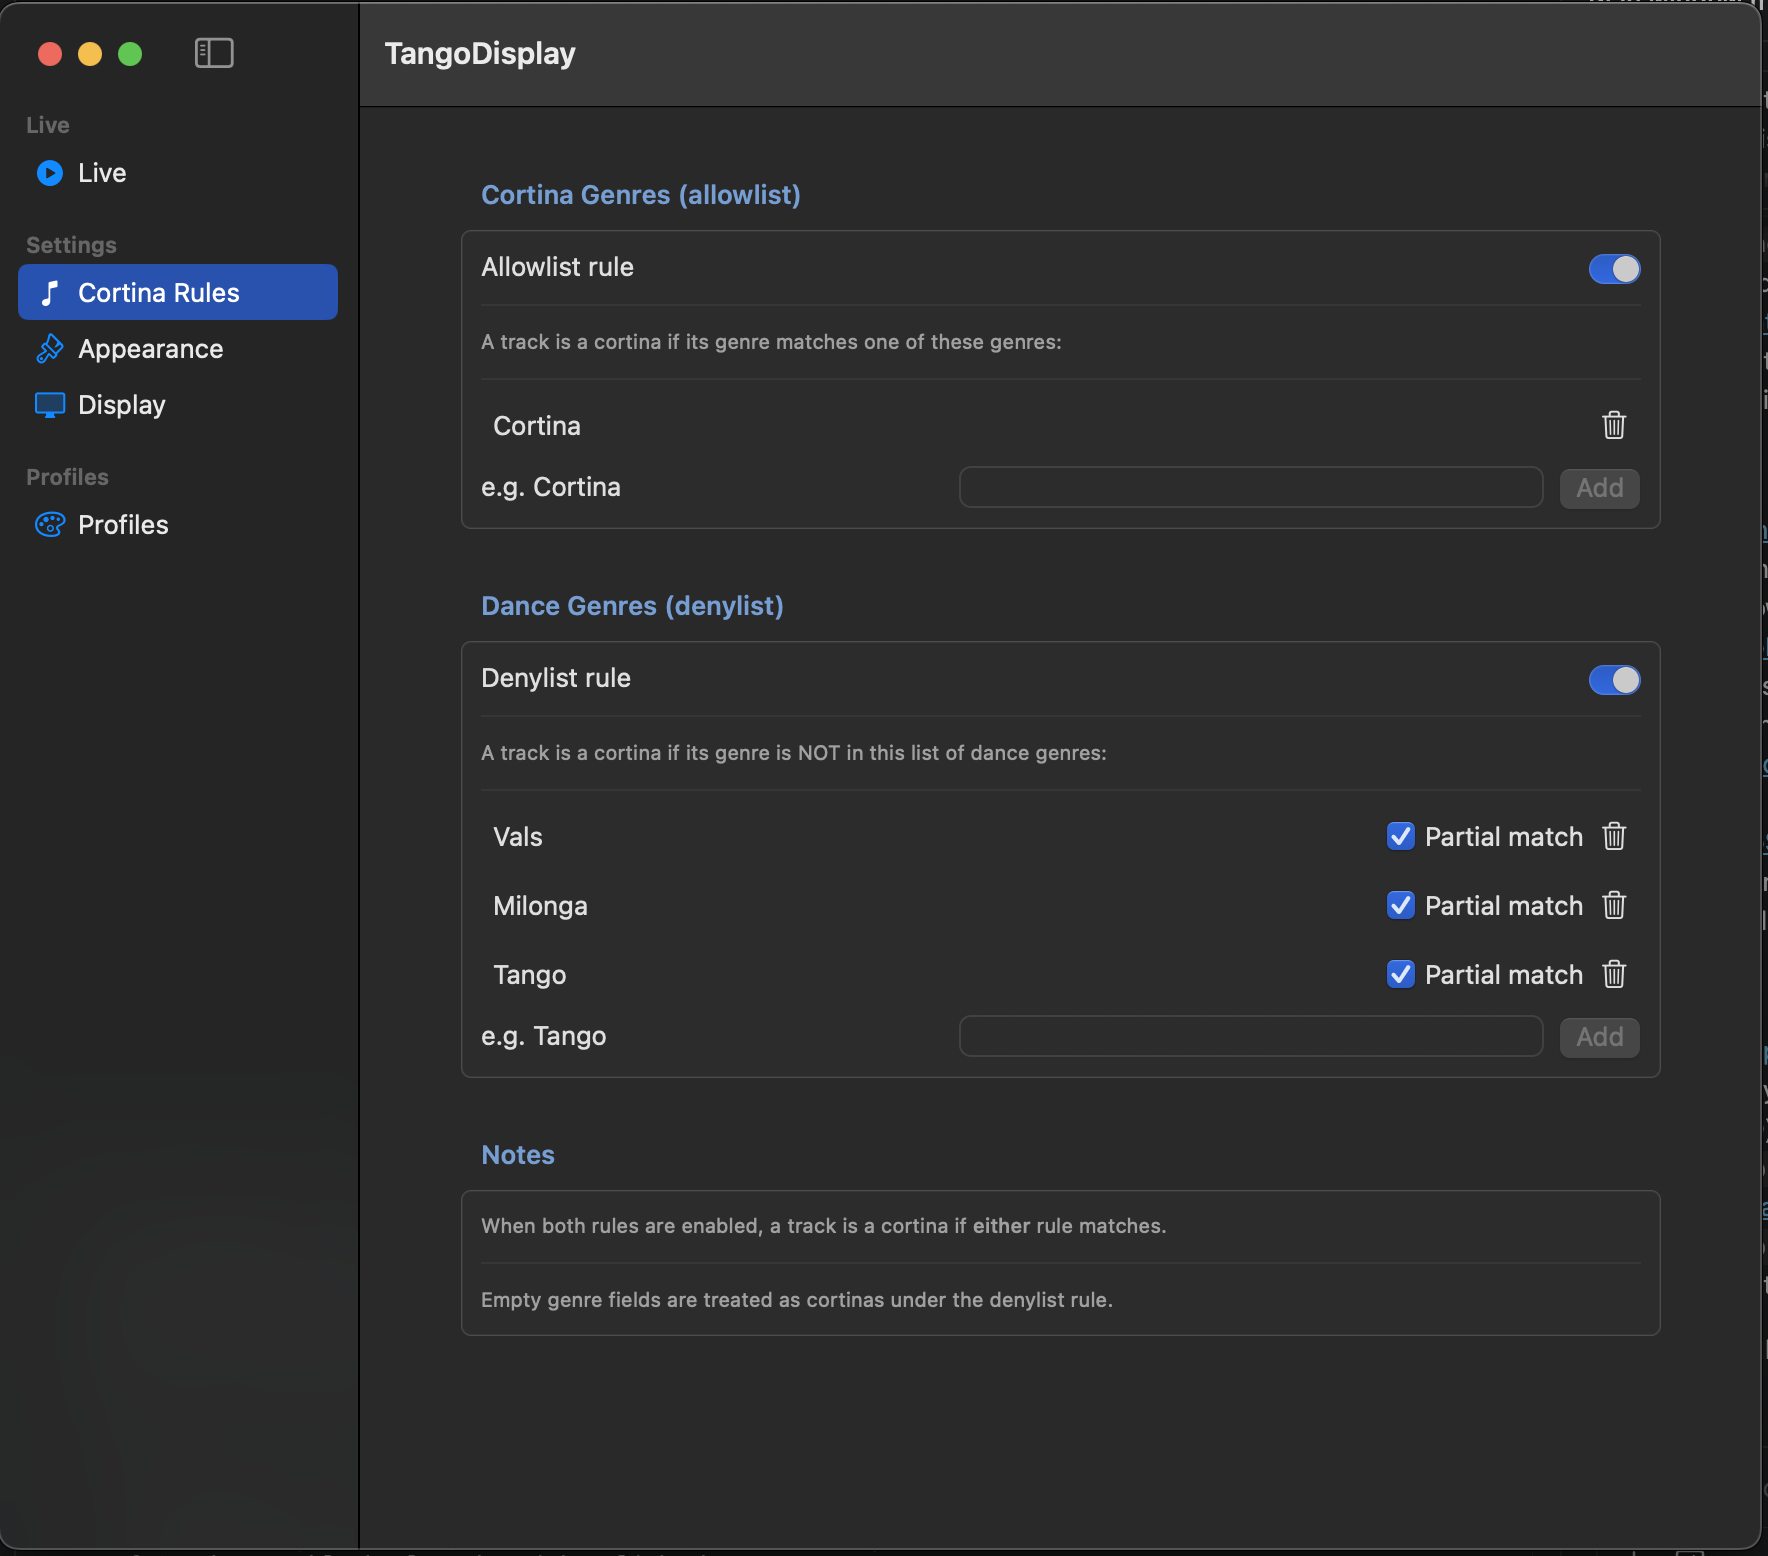
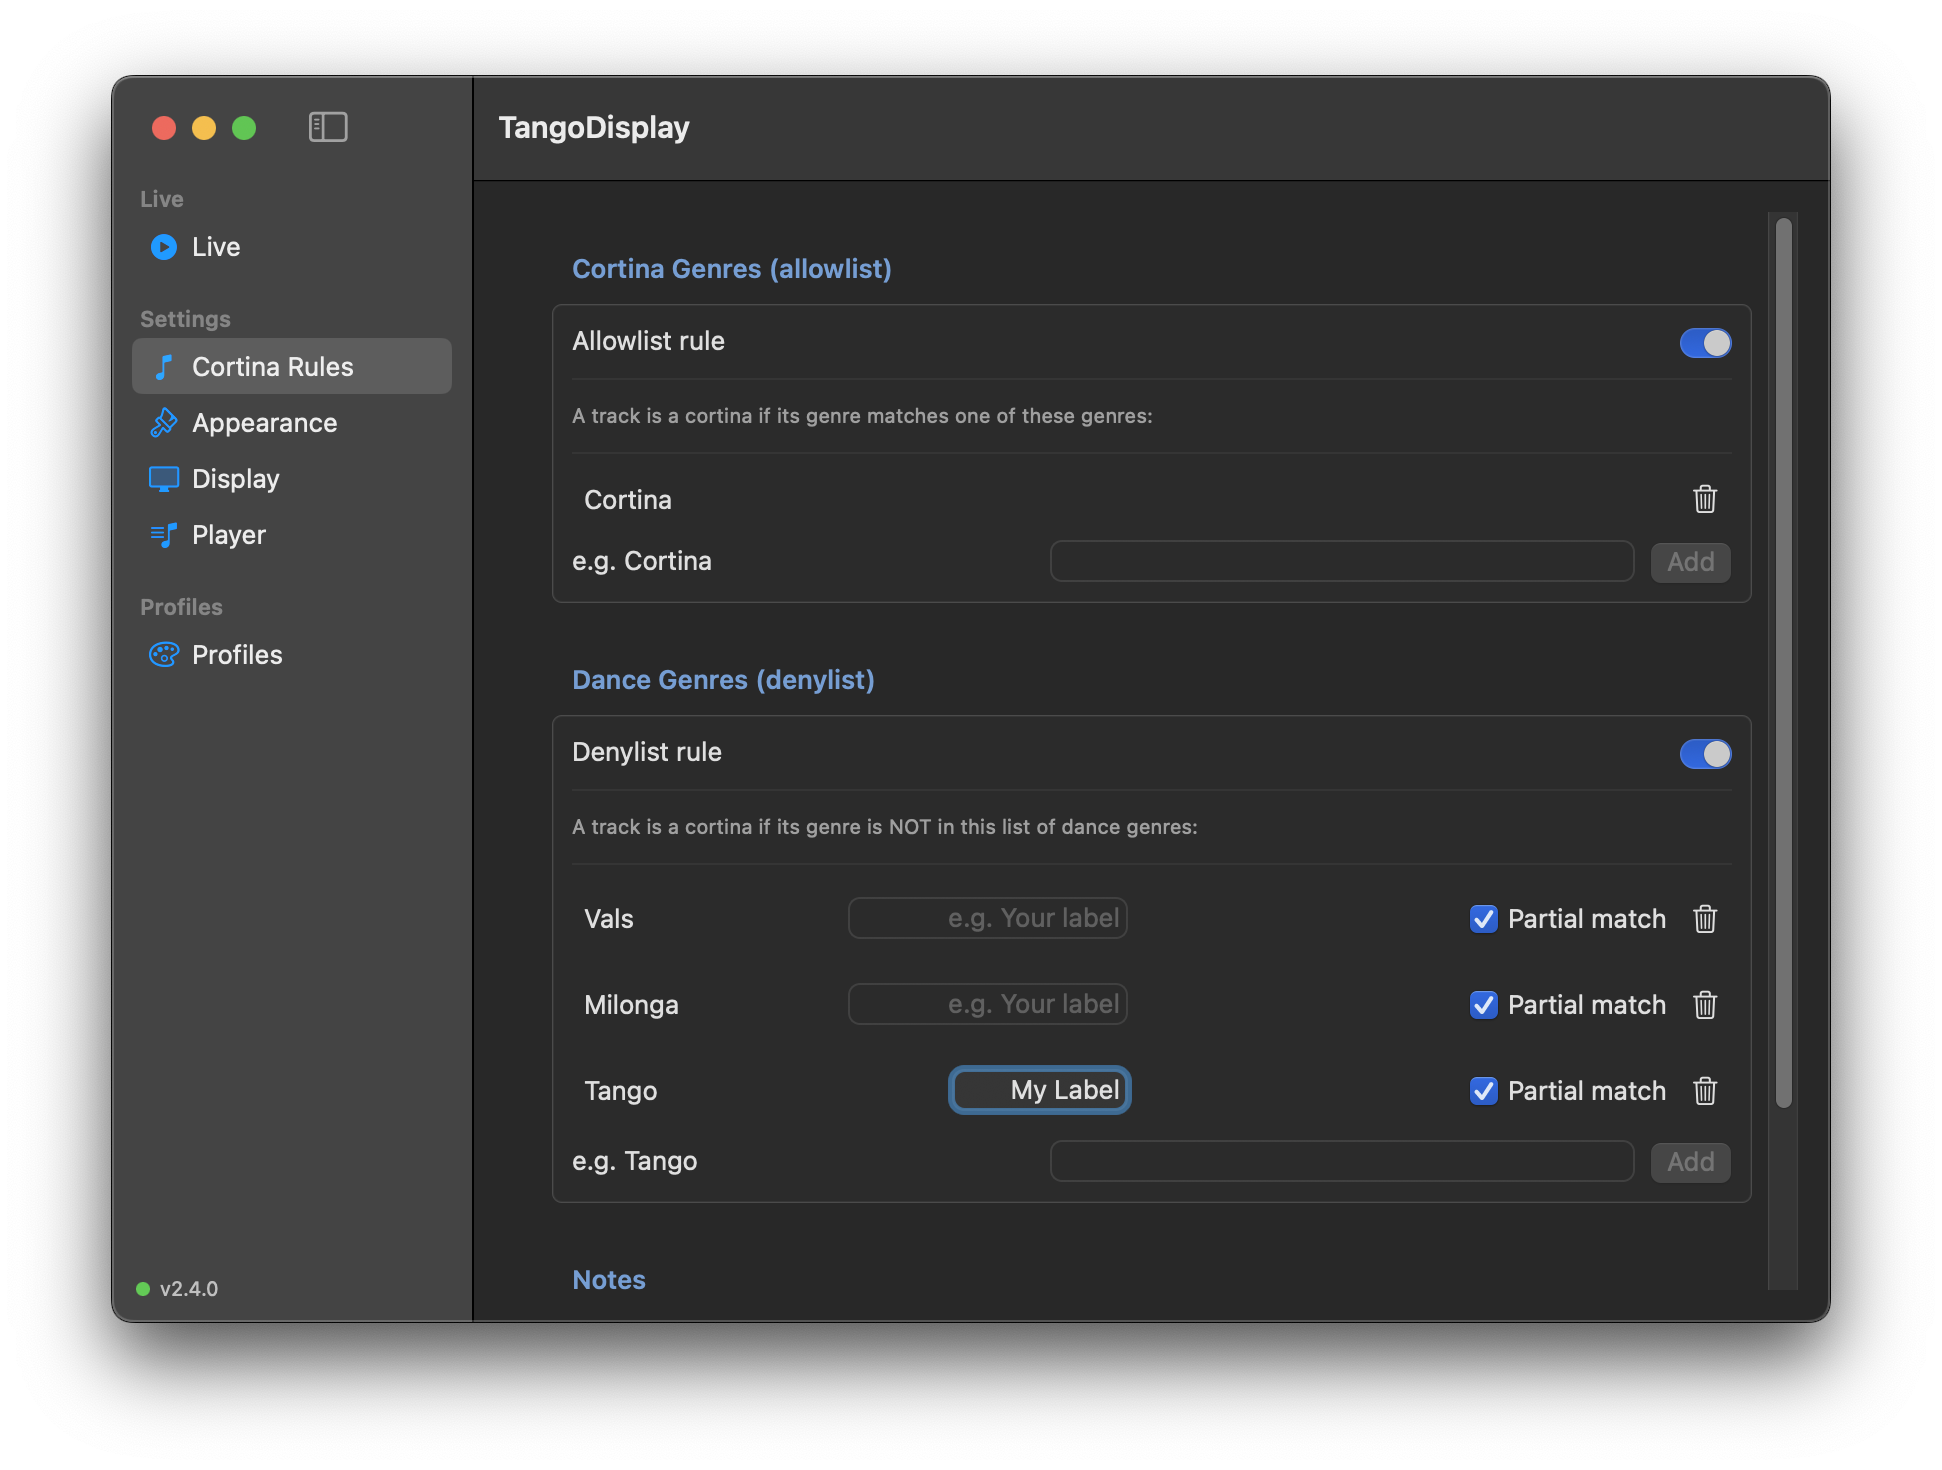
Bump version to 2.5.0; add denylist genre display label override
Each denylist entry now has an optional display label field. When set,
the label is shown on the dancer screen instead of the raw genre tag —
useful for compound tags like "Tango: Vals" → "Vals". Applies to both
the dance-track view and the cortina "Coming Up" preview. Detection
logic is unaffected.

diff --git a/Sources/TangoDisplay/Settings/AppSettings.swift b/Sources/TangoDisplay/Settings/AppSettings.swift
@@ -41,6 +41,9 @@ final class AppSettings: ObservableObject {
             denylistPartialMatchGenres = denylistPartialMatchGenres.filter {
                 denylistGenres.contains($0)
             }
+            denylistLabelOverrides = denylistLabelOverrides.filter {
+                denylistGenres.contains($0.key)
+            }
         }
     }
     @Published var denylistPartialMatchGenres: Set<String> {
@@ -49,6 +52,13 @@ final class AppSettings: ObservableObject {
                 Array(denylistPartialMatchGenres).joined(separator: ","),
                 forKey: kPrefix + "denylistPartialMatchGenres"
             )
+        }
+    }
+    @Published var denylistLabelOverrides: [String: String] {
+        didSet {
+            if let data = try? JSONEncoder().encode(denylistLabelOverrides) {
+                UserDefaults.standard.set(data, forKey: kPrefix + "denylistLabelOverrides")
+            }
         }
     }
 
@@ -98,6 +108,12 @@ final class AppSettings: ObservableObject {
             denylistPartialMatchGenres = Set(AppSettings.parseGenres(
                 ud.string(forKey: kPrefix + "denylistGenres"), default: ["Tango", "Vals", "Milonga"]))
         }
+        if let data = ud.data(forKey: kPrefix + "denylistLabelOverrides"),
+           let overrides = try? JSONDecoder().decode([String: String].self, from: data) {
+            denylistLabelOverrides = overrides
+        } else {
+            denylistLabelOverrides = [:]
+        }
         let rawPlayer = ud.string(forKey: kPrefix + "selectedPlayer") ?? ""
         selectedPlayer = MusicPlayerChoice(rawValue: rawPlayer) ?? .musicApp
         if let idString = ud.string(forKey: kPrefix + "activeProfileID") {
@@ -120,6 +136,15 @@ final class AppSettings: ObservableObject {
     private static func parseGenres(_ raw: String?, default defaultValue: [String]) -> [String] {
         guard let raw, !raw.isEmpty else { return defaultValue }
         return raw.split(separator: ",").map { $0.trimmingCharacters(in: .whitespaces) }.filter { !$0.isEmpty }
+    }
+
+    func displayLabel(for genre: String) -> String {
+        let trimmed = genre.trimmingCharacters(in: .whitespaces)
+        if let match = denylistGenres.first(where: { $0.caseInsensitiveCompare(trimmed) == .orderedSame }),
+           let override = denylistLabelOverrides[match], !override.isEmpty {
+            return override
+        }
+        return trimmed
     }
 
     func makeDetector() -> CortinaDetector {

diff --git a/Sources/TangoDisplay/Views/Control/CortinaSettingsView.swift b/Sources/TangoDisplay/Views/Control/CortinaSettingsView.swift
@@ -103,9 +103,26 @@ struct CortinaSettingsView: View {
         VStack(alignment: .leading, spacing: 10) {
             ForEach(settings.denylistGenres.indices, id: \.self) { idx in
                 let genre = settings.denylistGenres[idx]
-                HStack {
+                HStack(spacing: 12) {
                     Text(genre)
                         .font(.system(size: 13))
+                        .frame(width: 100, alignment: .leading)
+                    TextField(text: Binding(
+                        get: { settings.denylistLabelOverrides[genre] ?? "" },
+                        set: { newValue in
+                            let v = newValue.trimmingCharacters(in: .whitespaces)
+                            if v.isEmpty {
+                                settings.denylistLabelOverrides.removeValue(forKey: genre)
+                            } else {
+                                settings.denylistLabelOverrides[genre] = v
+                            }
+                        }
+                    ), prompt: Text("e.g. Your label").foregroundColor(.secondary)) {
+                        EmptyView()
+                    }
+                    .textFieldStyle(.roundedBorder)
+                    .font(.system(size: 13))
+                    .frame(width: 160)
                     Spacer()
                     Toggle("Partial match", isOn: Binding(
                         get: { settings.denylistPartialMatchGenres.contains(genre) },
@@ -118,6 +135,7 @@ struct CortinaSettingsView: View {
                         }
                     ))
                     .toggleStyle(.checkbox)
+                    .fixedSize()
                     .help("Also matches genres starting with \"\(genre) \" (e.g. \"\(genre) Instrumental\")")
                     Button {
                         settings.denylistGenres.remove(at: idx)
@@ -127,7 +145,7 @@ struct CortinaSettingsView: View {
                     .buttonStyle(.plain)
                 }
                 .padding(.horizontal, 6)
-                .padding(.vertical, 4)
+                .padding(.vertical, 6)
             }
             HStack {
                 TextField("e.g. Tango", text: $newDenylistGenre)

diff --git a/Sources/TangoDisplay/Views/Presentation/PlayingView.swift b/Sources/TangoDisplay/Views/Presentation/PlayingView.swift
@@ -4,6 +4,7 @@ import TangoDisplayCore
 struct PlayingView: View {
     let state: DisplayState
     let profile: AppearanceProfile
+    @ObservedObject var settings: AppSettings
 
     var body: some View {
         VStack(spacing: 16) {
@@ -13,7 +14,7 @@ struct PlayingView: View {
                 switch item {
                 case .genre:
                     if profile.showGenreDance, let genre = state.currentTrack?.genre, !genre.isEmpty {
-                        Text(genre.uppercased())
+                        Text(settings.displayLabel(for: genre).uppercased())
                             .font(profile.genreFont)
                             .foregroundColor(profile.genreSwiftUIColor)
                             .multilineTextAlignment(.center)

diff --git a/Sources/TangoDisplay/Views/Presentation/PresentationView.swift b/Sources/TangoDisplay/Views/Presentation/PresentationView.swift
@@ -124,7 +124,8 @@ struct PresentationView: View {
         case .playing:
             PlayingView(
                 state: appState.displayState,
-                profile: activeProfile
+                profile: activeProfile,
+                settings: appState.settings
             )
         case .cortina:
             CortinaView(

diff --git a/Sources/TangoDisplay/Views/Presentation/CortinaView.swift b/Sources/TangoDisplay/Views/Presentation/CortinaView.swift
@@ -66,7 +66,7 @@ struct CortinaView: View {
                                 .foregroundColor(profile.nextUpLabelSwiftUIColor)
                         case .genre:
                             if profile.showGenreCortina, !next.genre.isEmpty {
-                                Text(next.genre)
+                                Text(settings.displayLabel(for: next.genre))
                                     .font(profile.genreFont)
                                     .foregroundColor(profile.genreSwiftUIColor)
                             }

diff --git a/docs/Cortina-Rules.md b/docs/Cortina-Rules.md
@@ -44,6 +44,26 @@ Click the bin icon to the right of the genre entry.
 
 ---
 
+## Display label override
+
+Each denylist entry has an optional **display label** field. When filled in, the label is shown on the dancer screen instead of the raw genre tag.
+
+This is useful when your library uses compound genre tags like `Tango: Vals` or `Tango: Milonga` for correct organisation, but you want a cleaner label — just `Vals` or `Milonga` — displayed to dancers.
+
+**Example:**
+
+| Genre tag (in library) | Display label | Shown on screen |
+|---|---|---|
+| `Tango: Vals` | `Vals` | VALS |
+| `Tango: Milonga` | `Milonga` | MILONGA |
+| `Tango` | *(empty)* | TANGO |
+
+- Leave the field empty to show the raw genre tag as-is
+- The label applies in both the dance-track view and the cortina "Coming Up" preview
+- Detection logic is unaffected — the label is purely cosmetic
+
+---
+
 ## Notes
 
 > When both rules are enabled, a track is a cortina if either rule matches.

diff --git a/README.md b/README.md
@@ -9,7 +9,7 @@ A native macOS menu-bar app that shows a clean, fullscreen dancer display on an 
 ## Features
 
 - **Live track display** — artist, title, genre/label, year, and track counter (e.g. Track 2 of 4) on the dancer screen
-- **Cortina detection** — configurable allowlist (cortina genres) and denylist (dance genres) with partial matching; shows a "CORTINA" overlay automatically
+- **Cortina detection** — configurable allowlist (cortina genres) and denylist (dance genres) with partial matching; shows a "CORTINA" overlay automatically. Optional per-entry **display label** lets you show a clean label (e.g. `Vals`) instead of the raw genre tag (e.g. `Tango: Vals`)
 - **Coming-up preview** — displays the next tanda's genre and artist before it starts
 - **Multi-monitor support** — sends the presentation window to any connected display; move and toggle fullscreen from the control window
 - **Appearance profiles** — built-in (Classic, Modern, High Contrast) and unlimited custom profiles with per-field colors, fonts, and background image
@@ -45,7 +45,7 @@ A native macOS menu-bar app that shows a clean, fullscreen dancer display on an 
 ### Option A — Download pre-built app (easiest)
 
 1. Go to the [Releases](https://github.com/richardsladetdj-creator/TangoDisplay/releases) page
-2. Download `TangoDisplay-v2.4.0-universal.zip` (works on both Apple Silicon and Intel Macs)
+2. Download `TangoDisplay-v2.5.0-universal.zip` (works on both Apple Silicon and Intel Macs)
 3. Unzip and drag `TangoDisplay.app` to your `/Applications` folder
 4. **Right-click › Open** on first launch (required because the app is ad-hoc signed, not notarised)
 5. Grant the permissions macOS requests (see [Permissions](#permissions) below)
@@ -131,6 +131,9 @@ Key design decisions:
 ---
 
 ## Changelog
+
+### v2.5.0
+- **New (Cortina Rules):** Display label override for denylist genres. Each denylist entry now has an optional label field. When filled in, the label is shown on the dancer screen instead of the raw genre tag — useful for libraries that use compound genre tags like `Tango: Vals` or `Tango: Milonga` but want cleaner on-screen text. Applies to both the dance-track view and the cortina "Coming Up" preview. Detection logic is unaffected.
 
 ### v2.4.0
 - **New (Appearance):** Cortina track display. A new **Show cortina track during cortina** toggle in the Field Visibility section lets you display the playing cortina's own artist and/or title on the cortina screen. Two sub-toggles — **Cortina Artist** and **Cortina Title** — give independent control. Off by default; existing profiles migrate automatically.